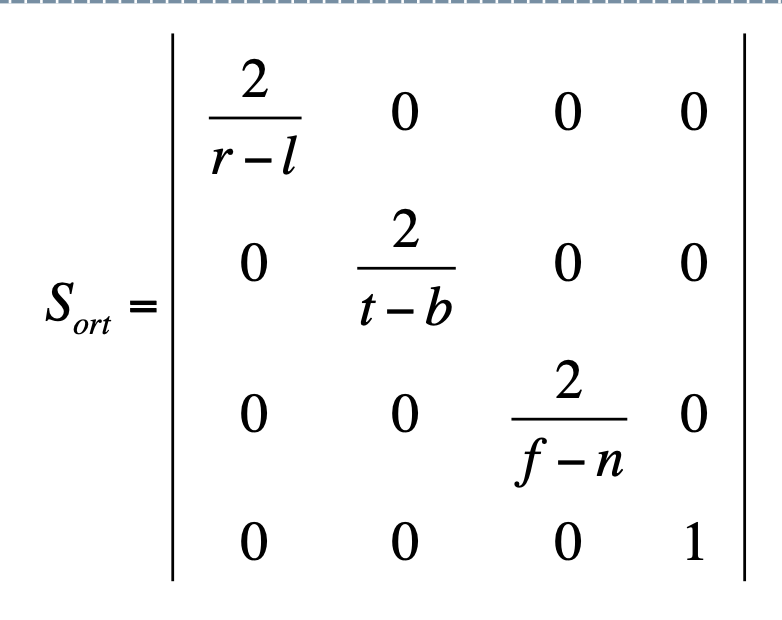
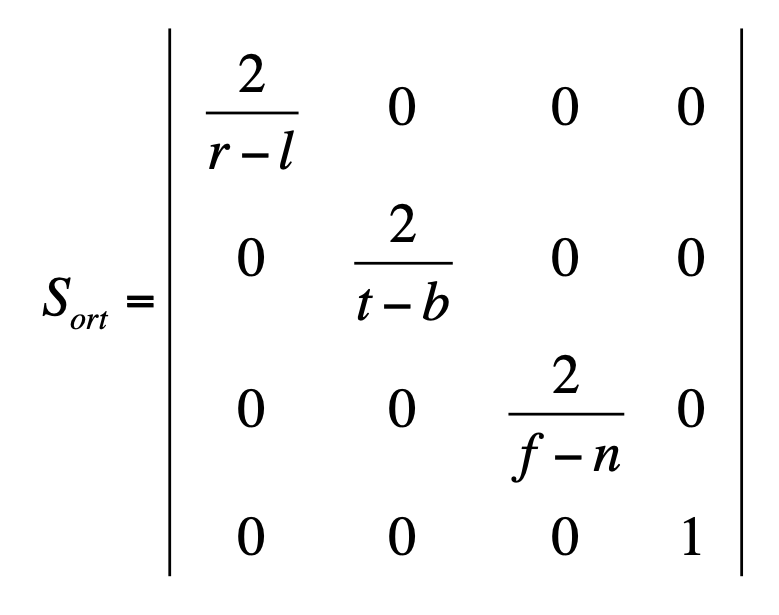
some correction just for README.md

diff --git a/A04a - Parallel projections/README.md b/A04a - Parallel projections/README.md
@@ -11,12 +11,12 @@ orthogonal projection has three steps:\
 <img width="300" src="./images/ConvertToLeftHanded.png">
 
 The Formula is:\
-<img width="300" src="./images/WithoutW.png">
+<img width="500" src="./images/WithoutW.png">
 
 -----
 #### With having half width
 
 The formula is:\
-<img width="300" src="./images/WithW.png">
+<img width="500" src="./images/WithW.png">
 
 
